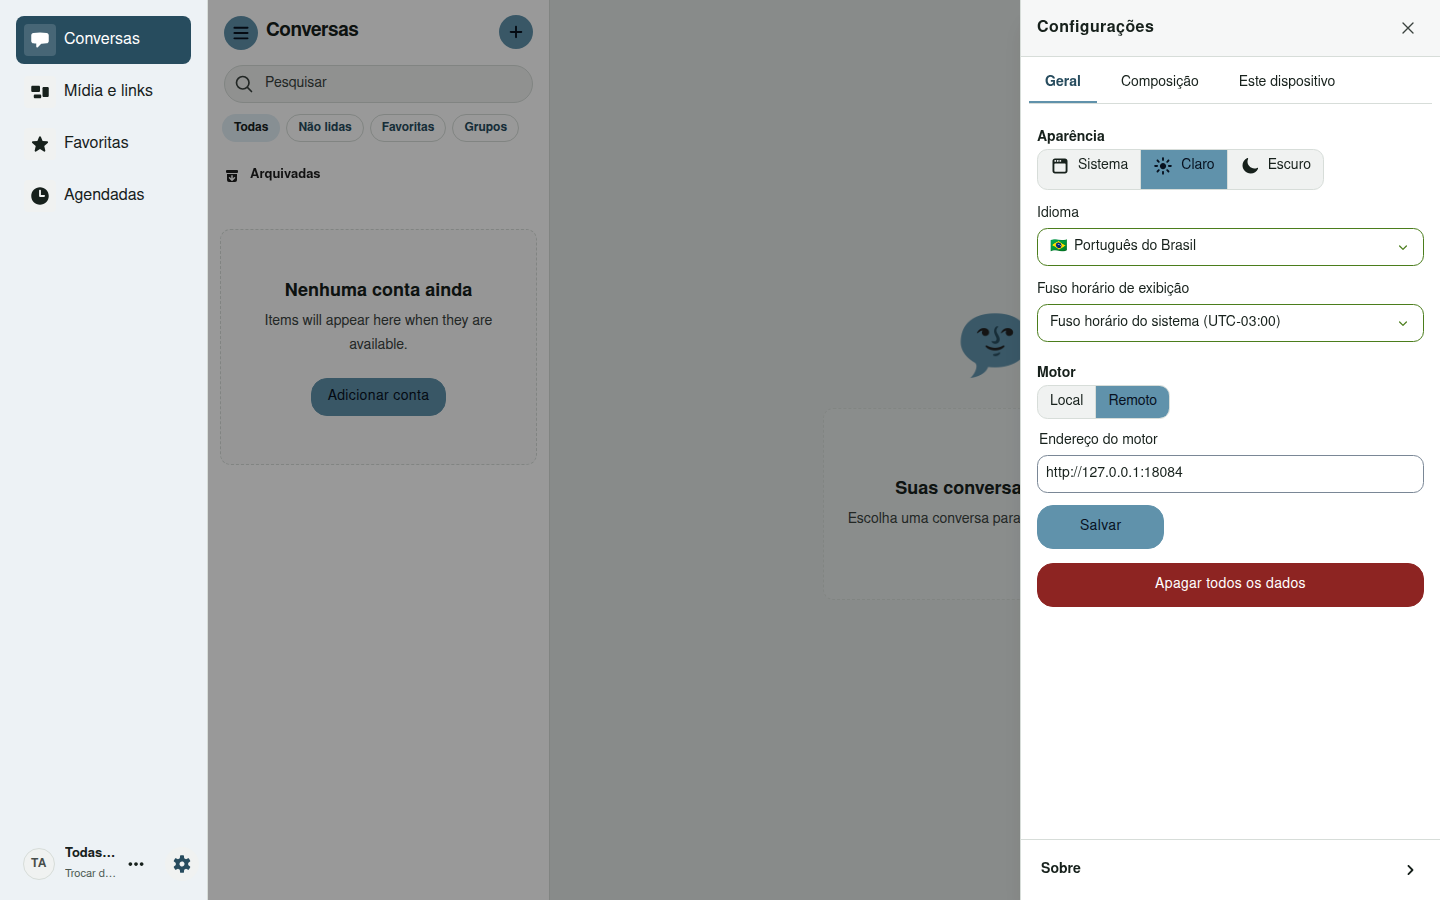
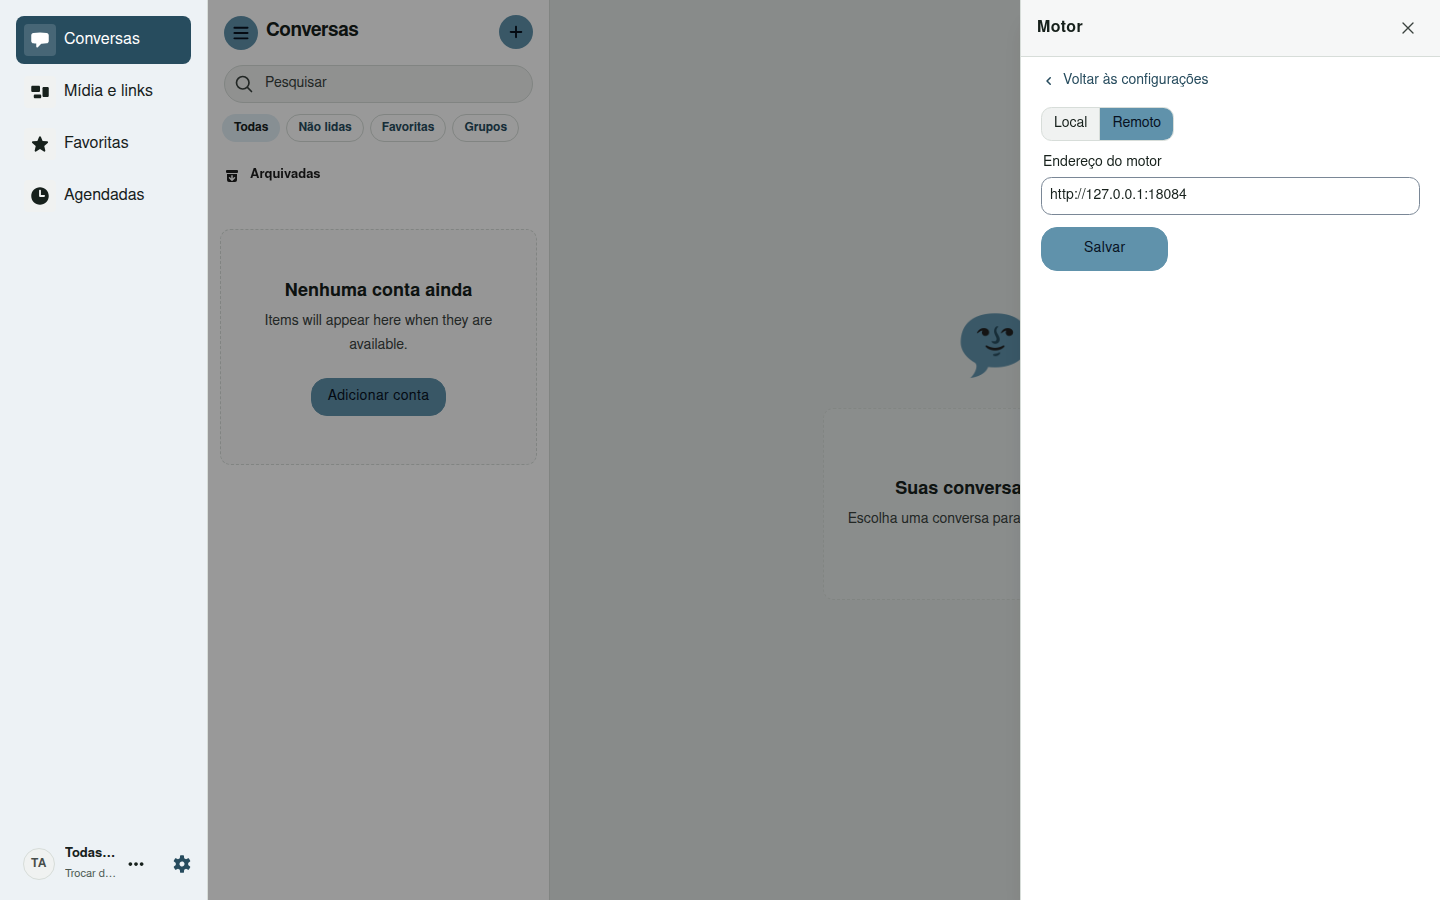
Atualizar o manual para a tela Motor

diff --git a/content/docs/manual/index.md b/content/docs/manual/index.md
@@ -14,9 +14,9 @@ Este manual acompanha o [Oiê v0.0.1-rc.16](../../baixar/index.md).
 
 Os controles de seleção do motor fazem parte da versão em desenvolvimento. A versão v0.0.1-rc.16, oferecida em **Baixar**, permite conectar o desktop por meio da opção [`--engine-url`](../arquitetura/index.md#interface-e-motor-em-processos-separados).
 
-No desktop, abra **Configurações → Geral → Motor**. **Local** é o padrão e roda o motor no seu dispositivo. Para acessar um motor hospedado, selecione **Remoto**, informe seu endereço completo, como `http://127.0.0.1:18084`, e clique em **Salvar**. O Oiê verifica a conexão antes de abrir as conversas do motor remoto. A escolha vale para esse perfil do desktop e é lembrada quando você reabre o aplicativo.
+No desktop, entre em **Configurações → Geral** e abra **Motor**. **Local** é o padrão e roda o motor no seu dispositivo. Para acessar um motor hospedado, selecione **Remoto**, informe seu endereço completo, como `http://127.0.0.1:18084`, e clique em **Salvar**. O Oiê verifica a conexão antes de abrir as conversas do motor remoto. A escolha vale para esse perfil do desktop e é lembrada quando você reabre o aplicativo.
 
-![Configurações do motor com Remoto selecionado, o campo Endereço do motor preenchido e o botão Salvar.](imagens/motor-remoto.webp "Configurações do motor remoto") [Ver captura completa](imagens/motor-remoto-original.webp)
+![Tela Motor com o botão Voltar às configurações, a opção Remoto selecionada, o endereço preenchido e o botão Salvar.](imagens/motor-remoto.webp "Configurações do motor remoto") [Ver captura completa](imagens/motor-remoto-original.webp)
 
 As contas e o histórico de cada motor ficam onde foram gravados. Para voltar às suas conversas deste dispositivo, inclusive se o motor remoto sair do ar, selecione **Local** e salve. O motor remoto continua funcionando no servidor.
 
